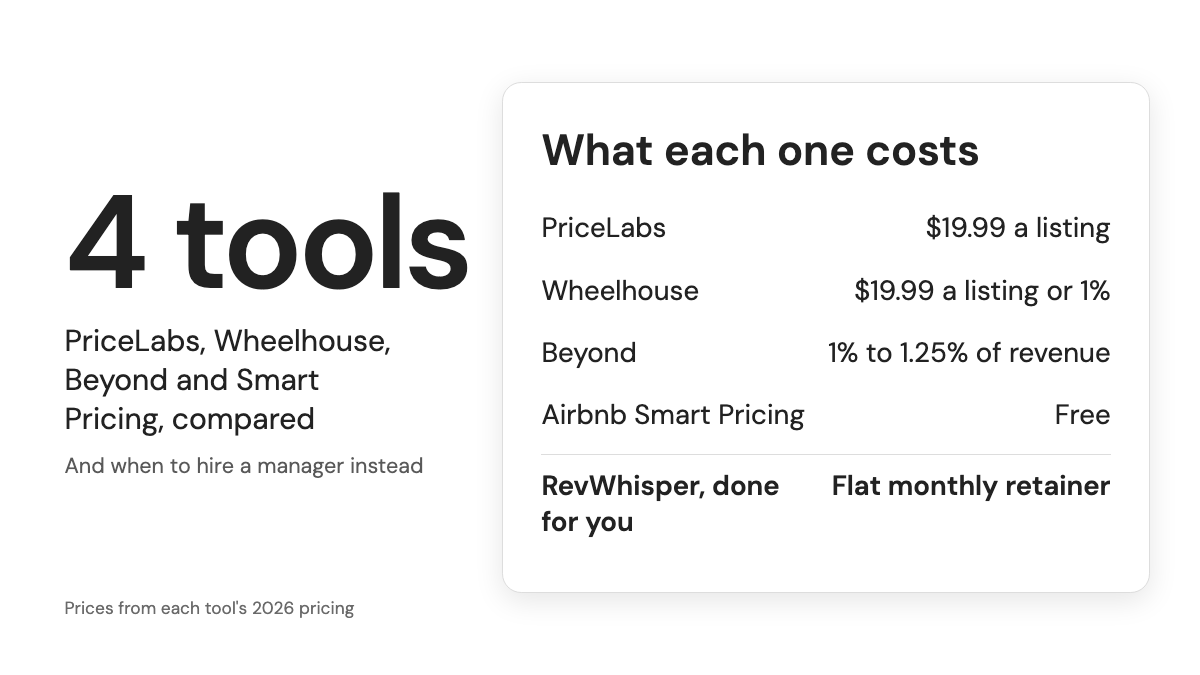
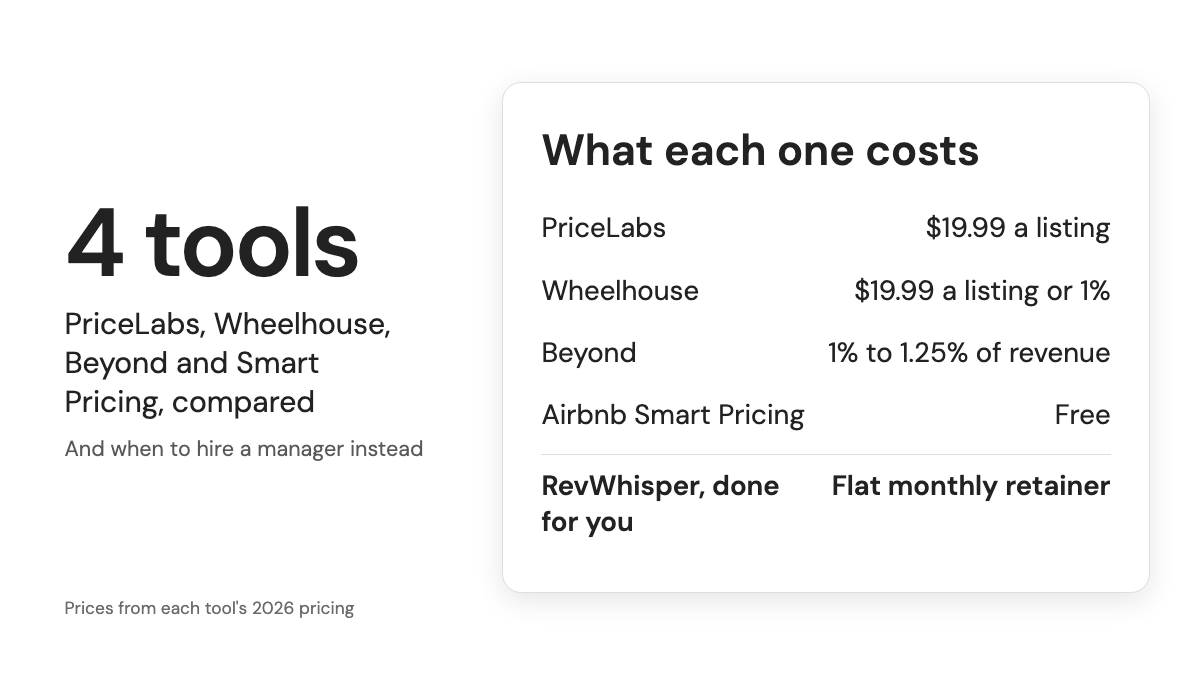
fix(blog): smaller headline on the pricing tools thumbnail

Changed region(s): [[0.0308, 0.4667, 0.37, 0.7156], [0.0617, 0.28, 0.4008, 0.4356]]

diff --git a/blog/index.html b/blog/index.html
@@ -579,7 +579,7 @@ body{font-family:'DM Sans','system-ui','Helvetica Neue',sans-serif;background:#f
     <div class="blog-grid" id="blog-grid">
 <!-- BLOG-CARDS:START -->
       <a href="/blog/best-airbnb-pricing-tools" class="blog-card" data-tags="Comparison|Revenue Management">
-        <div class="blog-card-thumb"><div class="hx still" aria-hidden="true"><div class="in site v3 cw-white"><div class="g2"><div class="lcol"><div class="a rise bigt" style="--d:0.2s"><b>4 tools</b><span>PriceLabs, Wheelhouse, Beyond and Smart Pricing,&nbsp;compared</span><i>And when to hire a manager&nbsp;instead</i></div><span class="a fade src" style="--d:1.2s">Prices from each tool's 2026&nbsp;pricing</span></div><div class="rcol"><div class="a pop rcard" style="--d:0.35s"><div class="rp"><b>What each one&nbsp;costs</b></div><div class="rl"><span>PriceLabs</span><span class="num">$19.99 a&nbsp;listing</span></div><div class="rl"><span>Wheelhouse</span><span class="num">$19.99 a listing or&nbsp;1%</span></div><div class="rl"><span>Beyond</span><span class="num">1% to 1.25% of&nbsp;revenue</span></div><div class="rl"><span>Airbnb Smart&nbsp;Pricing</span><span class="num">Free</span></div><div class="rl tot"><span>RevWhisper, done for&nbsp;you</span><span class="num">Flat monthly&nbsp;retainer</span></div></div></div></div></div></div></div>
+        <div class="blog-card-thumb"><div class="hx still" aria-hidden="true"><div class="in site v3 cw-white"><div class="g2"><div class="lcol"><div class="a rise bigt" style="--d:0.2s"><b class="sm">4 tools</b><span>PriceLabs, Wheelhouse, Beyond and Smart Pricing,&nbsp;compared</span><i>And when to hire a manager&nbsp;instead</i></div><span class="a fade src" style="--d:1.2s">Prices from each tool's 2026&nbsp;pricing</span></div><div class="rcol"><div class="a pop rcard" style="--d:0.35s"><div class="rp"><b>What each one&nbsp;costs</b></div><div class="rl"><span>PriceLabs</span><span class="num">$19.99 a&nbsp;listing</span></div><div class="rl"><span>Wheelhouse</span><span class="num">$19.99 a listing or&nbsp;1%</span></div><div class="rl"><span>Beyond</span><span class="num">1% to 1.25% of&nbsp;revenue</span></div><div class="rl"><span>Airbnb Smart&nbsp;Pricing</span><span class="num">Free</span></div><div class="rl tot"><span>RevWhisper, done for&nbsp;you</span><span class="num">Flat monthly&nbsp;retainer</span></div></div></div></div></div></div></div>
         <div class="blog-card-body">
           <div class="blog-card-tags"><span class="blog-card-tag">Comparison</span><span class="blog-card-tag">Revenue Management</span></div>
           <h2 class="blog-card-title">Best Airbnb Pricing Tools, and When to Hire a Manager Instead</h2>

diff --git a/blog/_scheduled/index-202611101400.html b/blog/_scheduled/index-202611101400.html
@@ -603,7 +603,7 @@ body{font-family:'DM Sans','system-ui','Helvetica Neue',sans-serif;background:#f
         </div>
       </a>
       <a href="/blog/best-airbnb-pricing-tools" class="blog-card" data-tags="Comparison|Revenue Management">
-        <div class="blog-card-thumb"><div class="hx still" aria-hidden="true"><div class="in site v3 cw-white"><div class="g2"><div class="lcol"><div class="a rise bigt" style="--d:0.2s"><b>4 tools</b><span>PriceLabs, Wheelhouse, Beyond and Smart Pricing,&nbsp;compared</span><i>And when to hire a manager&nbsp;instead</i></div><span class="a fade src" style="--d:1.2s">Prices from each tool's 2026&nbsp;pricing</span></div><div class="rcol"><div class="a pop rcard" style="--d:0.35s"><div class="rp"><b>What each one&nbsp;costs</b></div><div class="rl"><span>PriceLabs</span><span class="num">$19.99 a&nbsp;listing</span></div><div class="rl"><span>Wheelhouse</span><span class="num">$19.99 a listing or&nbsp;1%</span></div><div class="rl"><span>Beyond</span><span class="num">1% to 1.25% of&nbsp;revenue</span></div><div class="rl"><span>Airbnb Smart&nbsp;Pricing</span><span class="num">Free</span></div><div class="rl tot"><span>RevWhisper, done for&nbsp;you</span><span class="num">Flat monthly&nbsp;retainer</span></div></div></div></div></div></div></div>
+        <div class="blog-card-thumb"><div class="hx still" aria-hidden="true"><div class="in site v3 cw-white"><div class="g2"><div class="lcol"><div class="a rise bigt" style="--d:0.2s"><b class="sm">4 tools</b><span>PriceLabs, Wheelhouse, Beyond and Smart Pricing,&nbsp;compared</span><i>And when to hire a manager&nbsp;instead</i></div><span class="a fade src" style="--d:1.2s">Prices from each tool's 2026&nbsp;pricing</span></div><div class="rcol"><div class="a pop rcard" style="--d:0.35s"><div class="rp"><b>What each one&nbsp;costs</b></div><div class="rl"><span>PriceLabs</span><span class="num">$19.99 a&nbsp;listing</span></div><div class="rl"><span>Wheelhouse</span><span class="num">$19.99 a listing or&nbsp;1%</span></div><div class="rl"><span>Beyond</span><span class="num">1% to 1.25% of&nbsp;revenue</span></div><div class="rl"><span>Airbnb Smart&nbsp;Pricing</span><span class="num">Free</span></div><div class="rl tot"><span>RevWhisper, done for&nbsp;you</span><span class="num">Flat monthly&nbsp;retainer</span></div></div></div></div></div></div></div>
         <div class="blog-card-body">
           <div class="blog-card-tags"><span class="blog-card-tag">Comparison</span><span class="blog-card-tag">Revenue Management</span></div>
           <h2 class="blog-card-title">Best Airbnb Pricing Tools, and When to Hire a Manager Instead</h2>

diff --git a/blog/_scheduled/index-202611111400.html b/blog/_scheduled/index-202611111400.html
@@ -628,7 +628,7 @@ body{font-family:'DM Sans','system-ui','Helvetica Neue',sans-serif;background:#f
         </div>
       </a>
       <a href="/blog/best-airbnb-pricing-tools" class="blog-card" data-tags="Comparison|Revenue Management">
-        <div class="blog-card-thumb"><div class="hx still" aria-hidden="true"><div class="in site v3 cw-white"><div class="g2"><div class="lcol"><div class="a rise bigt" style="--d:0.2s"><b>4 tools</b><span>PriceLabs, Wheelhouse, Beyond and Smart Pricing,&nbsp;compared</span><i>And when to hire a manager&nbsp;instead</i></div><span class="a fade src" style="--d:1.2s">Prices from each tool's 2026&nbsp;pricing</span></div><div class="rcol"><div class="a pop rcard" style="--d:0.35s"><div class="rp"><b>What each one&nbsp;costs</b></div><div class="rl"><span>PriceLabs</span><span class="num">$19.99 a&nbsp;listing</span></div><div class="rl"><span>Wheelhouse</span><span class="num">$19.99 a listing or&nbsp;1%</span></div><div class="rl"><span>Beyond</span><span class="num">1% to 1.25% of&nbsp;revenue</span></div><div class="rl"><span>Airbnb Smart&nbsp;Pricing</span><span class="num">Free</span></div><div class="rl tot"><span>RevWhisper, done for&nbsp;you</span><span class="num">Flat monthly&nbsp;retainer</span></div></div></div></div></div></div></div>
+        <div class="blog-card-thumb"><div class="hx still" aria-hidden="true"><div class="in site v3 cw-white"><div class="g2"><div class="lcol"><div class="a rise bigt" style="--d:0.2s"><b class="sm">4 tools</b><span>PriceLabs, Wheelhouse, Beyond and Smart Pricing,&nbsp;compared</span><i>And when to hire a manager&nbsp;instead</i></div><span class="a fade src" style="--d:1.2s">Prices from each tool's 2026&nbsp;pricing</span></div><div class="rcol"><div class="a pop rcard" style="--d:0.35s"><div class="rp"><b>What each one&nbsp;costs</b></div><div class="rl"><span>PriceLabs</span><span class="num">$19.99 a&nbsp;listing</span></div><div class="rl"><span>Wheelhouse</span><span class="num">$19.99 a listing or&nbsp;1%</span></div><div class="rl"><span>Beyond</span><span class="num">1% to 1.25% of&nbsp;revenue</span></div><div class="rl"><span>Airbnb Smart&nbsp;Pricing</span><span class="num">Free</span></div><div class="rl tot"><span>RevWhisper, done for&nbsp;you</span><span class="num">Flat monthly&nbsp;retainer</span></div></div></div></div></div></div></div>
         <div class="blog-card-body">
           <div class="blog-card-tags"><span class="blog-card-tag">Comparison</span><span class="blog-card-tag">Revenue Management</span></div>
           <h2 class="blog-card-title">Best Airbnb Pricing Tools, and When to Hire a Manager Instead</h2>

diff --git a/blog/_scheduled/index-202611121400.html b/blog/_scheduled/index-202611121400.html
@@ -653,7 +653,7 @@ body{font-family:'DM Sans','system-ui','Helvetica Neue',sans-serif;background:#f
         </div>
       </a>
       <a href="/blog/best-airbnb-pricing-tools" class="blog-card" data-tags="Comparison|Revenue Management">
-        <div class="blog-card-thumb"><div class="hx still" aria-hidden="true"><div class="in site v3 cw-white"><div class="g2"><div class="lcol"><div class="a rise bigt" style="--d:0.2s"><b>4 tools</b><span>PriceLabs, Wheelhouse, Beyond and Smart Pricing,&nbsp;compared</span><i>And when to hire a manager&nbsp;instead</i></div><span class="a fade src" style="--d:1.2s">Prices from each tool's 2026&nbsp;pricing</span></div><div class="rcol"><div class="a pop rcard" style="--d:0.35s"><div class="rp"><b>What each one&nbsp;costs</b></div><div class="rl"><span>PriceLabs</span><span class="num">$19.99 a&nbsp;listing</span></div><div class="rl"><span>Wheelhouse</span><span class="num">$19.99 a listing or&nbsp;1%</span></div><div class="rl"><span>Beyond</span><span class="num">1% to 1.25% of&nbsp;revenue</span></div><div class="rl"><span>Airbnb Smart&nbsp;Pricing</span><span class="num">Free</span></div><div class="rl tot"><span>RevWhisper, done for&nbsp;you</span><span class="num">Flat monthly&nbsp;retainer</span></div></div></div></div></div></div></div>
+        <div class="blog-card-thumb"><div class="hx still" aria-hidden="true"><div class="in site v3 cw-white"><div class="g2"><div class="lcol"><div class="a rise bigt" style="--d:0.2s"><b class="sm">4 tools</b><span>PriceLabs, Wheelhouse, Beyond and Smart Pricing,&nbsp;compared</span><i>And when to hire a manager&nbsp;instead</i></div><span class="a fade src" style="--d:1.2s">Prices from each tool's 2026&nbsp;pricing</span></div><div class="rcol"><div class="a pop rcard" style="--d:0.35s"><div class="rp"><b>What each one&nbsp;costs</b></div><div class="rl"><span>PriceLabs</span><span class="num">$19.99 a&nbsp;listing</span></div><div class="rl"><span>Wheelhouse</span><span class="num">$19.99 a listing or&nbsp;1%</span></div><div class="rl"><span>Beyond</span><span class="num">1% to 1.25% of&nbsp;revenue</span></div><div class="rl"><span>Airbnb Smart&nbsp;Pricing</span><span class="num">Free</span></div><div class="rl tot"><span>RevWhisper, done for&nbsp;you</span><span class="num">Flat monthly&nbsp;retainer</span></div></div></div></div></div></div></div>
         <div class="blog-card-body">
           <div class="blog-card-tags"><span class="blog-card-tag">Comparison</span><span class="blog-card-tag">Revenue Management</span></div>
           <h2 class="blog-card-title">Best Airbnb Pricing Tools, and When to Hire a Manager Instead</h2>

diff --git a/blog/best-airbnb-pricing-tools.html b/blog/best-airbnb-pricing-tools.html
@@ -392,7 +392,7 @@ document.addEventListener('DOMContentLoaded',function(){
   <figure class="post-hero">
     <div class="hx" role="img" aria-label="4 tools compared: PriceLabs at $19.99 a listing, Wheelhouse at $19.99 a listing or 1%, Beyond at 1% to 1.25% of revenue, and Airbnb Smart Pricing for free. RevWhisper, done for you, is a flat monthly retainer.">
 <!-- HERO:START -->
-<div class="in site v3 cw-white"><div class="g2"><div class="lcol"><div class="a rise bigt" style="--d:0.2s"><b>4 tools</b><span>PriceLabs, Wheelhouse, Beyond and Smart Pricing,&nbsp;compared</span><i>And when to hire a manager&nbsp;instead</i></div><span class="a fade src" style="--d:1.2s">Prices from each tool's 2026&nbsp;pricing</span></div><div class="rcol"><div class="a pop rcard" style="--d:0.35s"><div class="rp"><b>What each one&nbsp;costs</b></div><div class="rl"><span>PriceLabs</span><span class="num">$19.99 a&nbsp;listing</span></div><div class="rl"><span>Wheelhouse</span><span class="num">$19.99 a listing or&nbsp;1%</span></div><div class="rl"><span>Beyond</span><span class="num">1% to 1.25% of&nbsp;revenue</span></div><div class="rl"><span>Airbnb Smart&nbsp;Pricing</span><span class="num">Free</span></div><div class="rl tot"><span>RevWhisper, done for&nbsp;you</span><span class="num">Flat monthly&nbsp;retainer</span></div></div></div></div></div>
+<div class="in site v3 cw-white"><div class="g2"><div class="lcol"><div class="a rise bigt" style="--d:0.2s"><b class="sm">4 tools</b><span>PriceLabs, Wheelhouse, Beyond and Smart Pricing,&nbsp;compared</span><i>And when to hire a manager&nbsp;instead</i></div><span class="a fade src" style="--d:1.2s">Prices from each tool's 2026&nbsp;pricing</span></div><div class="rcol"><div class="a pop rcard" style="--d:0.35s"><div class="rp"><b>What each one&nbsp;costs</b></div><div class="rl"><span>PriceLabs</span><span class="num">$19.99 a&nbsp;listing</span></div><div class="rl"><span>Wheelhouse</span><span class="num">$19.99 a listing or&nbsp;1%</span></div><div class="rl"><span>Beyond</span><span class="num">1% to 1.25% of&nbsp;revenue</span></div><div class="rl"><span>Airbnb Smart&nbsp;Pricing</span><span class="num">Free</span></div><div class="rl tot"><span>RevWhisper, done for&nbsp;you</span><span class="num">Flat monthly&nbsp;retainer</span></div></div></div></div></div>
 <!-- HERO:END -->
     </div>
   </figure>
